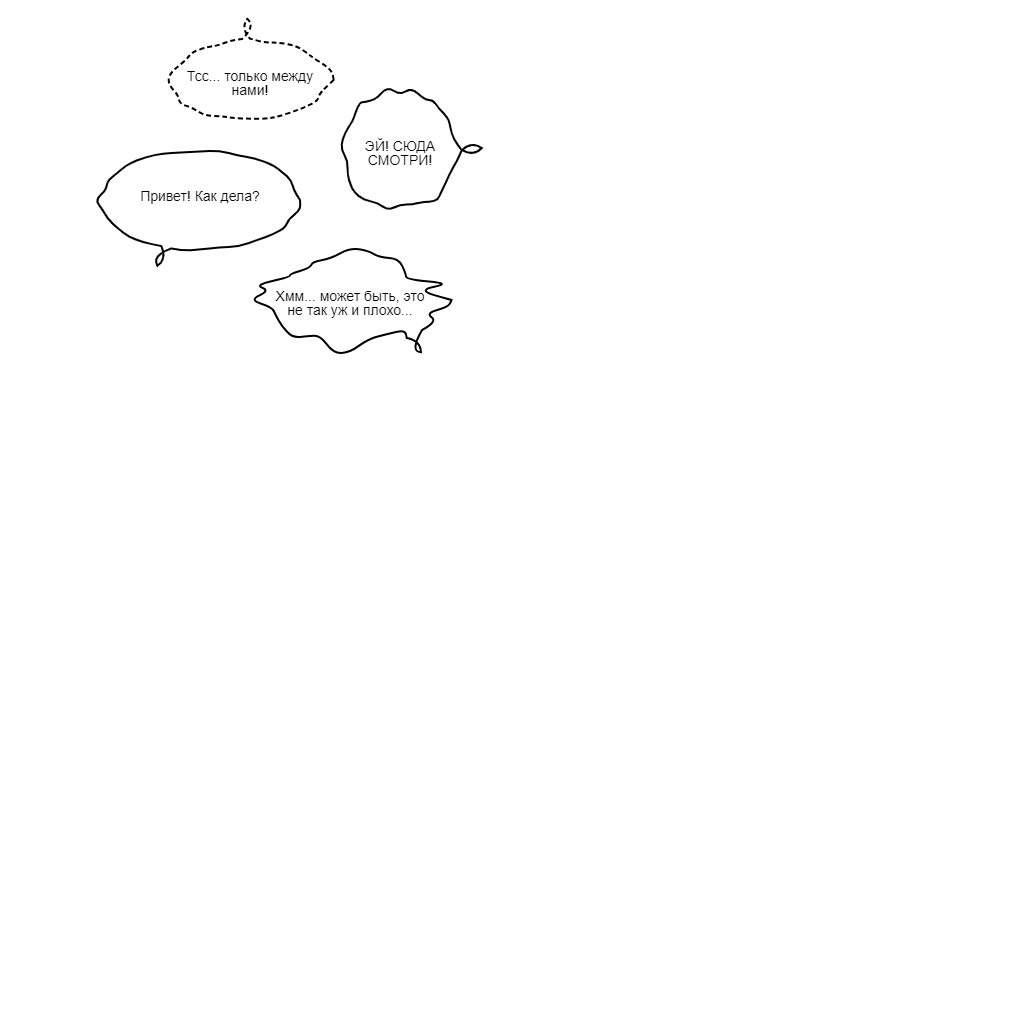
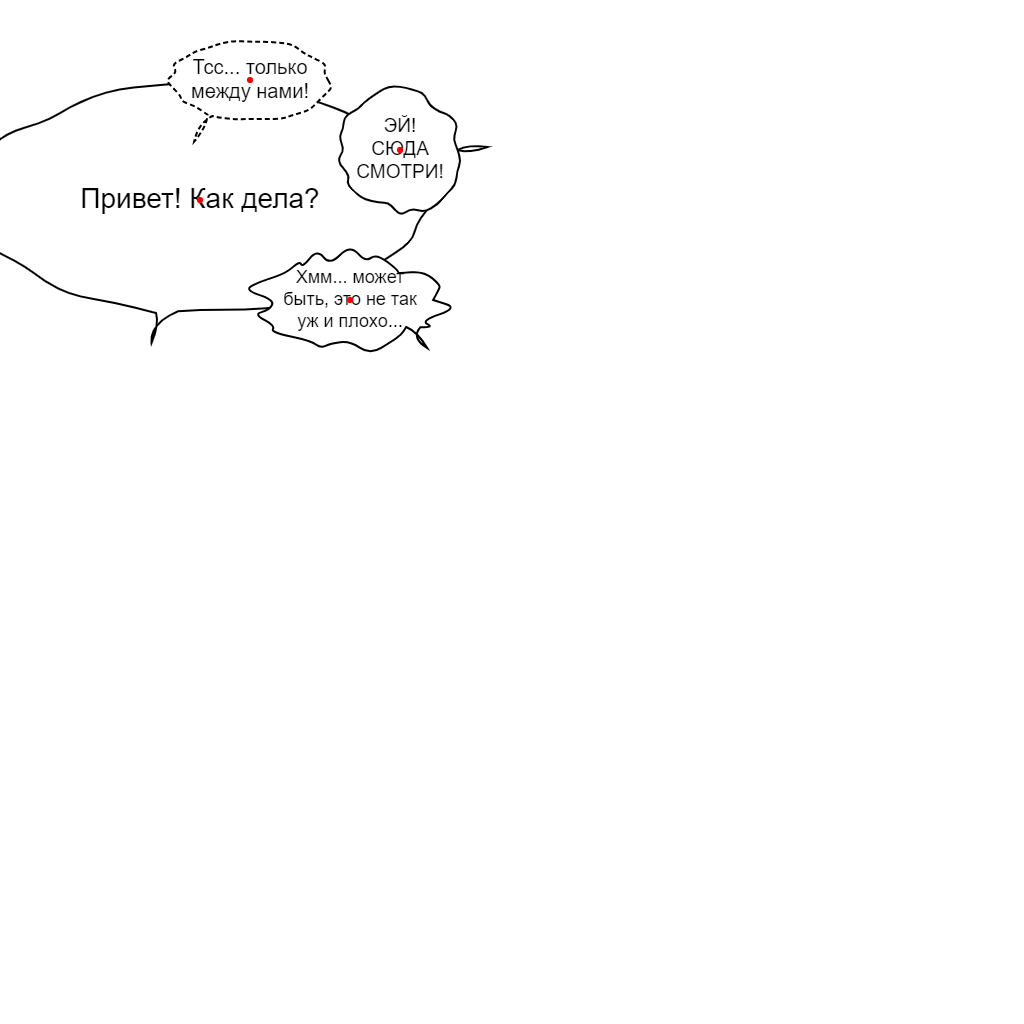
06-08-2025_00-23 более менее норм

diff --git a/render_bubbles.js b/render_bubbles.js
@@ -13,6 +13,16 @@ window.renderBubbles = async function (points) {
   for (const point of points) {
     const bubble = await createBubbleFromPoint(point);
     layer.add(bubble);
+
+    // 🔴 Добавим точку x/y как красную метку
+    const marker = new Konva.Circle({
+      x: 0,
+      y: 0,
+      radius: 3,
+      fill: 'red'
+    });
+
+    bubble.add(marker);
   }
 
   layer.draw();
@@ -41,22 +51,50 @@ async function createBubbleFromPoint(point) {
     dots.forEach(dot => group.add(dot));
   }
 
-  // Текст
-  const text = new Konva.Text({
-    x: -point.width / 2 + 10,
-    y: -10,
-    text: point.text,
-    fontSize: 14,
-    fontFamily: 'Arial',
-    width: point.width - 20,
-    align: 'center'
-  });
+  // 📦 Автоматический текст
+  const paddingX = point.width * 0.12;
+  const paddingY = point.height * 0.12;
 
-  group.add(text);
+  const maxWidth = point.width - paddingX * 2;
+  const maxHeight = point.height - paddingY * 2;
+
+  let fontSize = 28;
+  let fitted = false;
+  let tempText;
+
+  while (fontSize >= 10 && !fitted) {
+    tempText = new Konva.Text({
+      x: -point.width / 2 + paddingX,
+      y: -point.height / 2 + paddingY,
+      width: maxWidth,
+      text: point.text,
+      fontSize: fontSize,
+      fontFamily: 'Arial',
+      align: 'center',
+      verticalAlign: 'middle',
+      wrap: 'word',
+      lineHeight: 1.2
+    });
+
+    const actualHeight = tempText.getClientRect().height;
+
+    if (actualHeight <= maxHeight) {
+      fitted = true;
+    } else {
+      fontSize -= 1;
+    }
+  }
+
+  // Центрирование по вертикали вручную
+  const actualTextHeight = tempText.getClientRect().height;
+  const offsetY = (maxHeight - actualTextHeight) / 2;
+  tempText.y(tempText.y() + offsetY);
+
+  group.add(tempText);
   return group;
 }
 
-// Создание пути пузыря с плавным хвостиком
+// Хвост
 function createBubblePath(point) {
   const w = point.width;
   const h = point.height;
@@ -67,7 +105,6 @@ function createBubblePath(point) {
   const irregularity = point.irregularity ?? 0;
   const points = [];
 
-  // Генерация точек пузыря
   for (let i = 0; i < segments; i++) {
     const angle = (Math.PI * 2 * i) / segments;
     const radiusX = rX * (1 + (Math.random() - 0.5) * irregularity);
@@ -79,7 +116,6 @@ function createBubblePath(point) {
     });
   }
 
-  // Определяем угол хвостика
   let tailIndex = null;
   if (point.hasTail && point.style !== "thought") {
     const dx = point.anchorX - point.x;
@@ -103,36 +139,26 @@ function createBubblePath(point) {
       path += `M ${p0.x} ${p0.y}`;
     }
 
-    // Вставляем хвостик плавными кривыми
     if (tailIndex !== null && i === tailIndex) {
       const base = p0;
       const dx = point.anchorX - point.x;
       const dy = point.anchorY - point.y;
       const angle = Math.atan2(dy, dx);
 
-      // Шире основание хвоста
-      const spread = 0.6; // угол расширения
-      const length = 20;  // длина хвоста
+      const leftX = base.x + Math.cos(angle + 0.4) * 12;
+      const leftY = base.y + Math.sin(angle + 0.4) * 12;
+      const rightX = base.x + Math.cos(angle - 0.4) * 12;
+      const rightY = base.y + Math.sin(angle - 0.4) * 12;
 
-      const leftX = base.x + Math.cos(angle + spread) * 14;
-      const leftY = base.y + Math.sin(angle + spread) * 14;
-      const rightX = base.x + Math.cos(angle - spread) * 14;
-      const rightY = base.y + Math.sin(angle - spread) * 14;
+      const tipX = base.x + Math.cos(angle) * 30;
+      const tipY = base.y + Math.sin(angle) * 30;
 
-      // Более короткий кончик хвоста
-      const tipX = base.x + Math.cos(angle) * length;
-      const tipY = base.y + Math.sin(angle) * length;
-
-      // Плавная левая кривая
       path += ` Q ${leftX} ${leftY}, ${tipX} ${tipY}`;
-      // Плавная правая кривая
       path += ` Q ${rightX} ${rightY}, ${base.x} ${base.y}`;
     }
 
-
     const midX = (p0.x + p1.x) / 2;
     const midY = (p0.y + p1.y) / 2;
-
     path += ` Q ${p0.x} ${p0.y}, ${midX} ${midY}`;
   }
 
